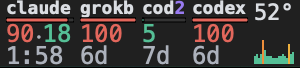
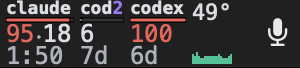
Blocks: usage below 50% in plain text color, not green
Only amber/orange/red carry a signal; safe numbers and the bar use the
label/temperature text color (theme-aware). Green stays in menu items.

Claude-Session: https://claude.ai/code/session_015nQPSd2BiFRJHyBXQFwzgC

diff --git a/README.md b/README.md
@@ -8,7 +8,7 @@ Your AI subscription limits in the macOS menu bar. One strip, one block per acco
 
 Each block: **% used** (5-hour · weekly, or just weekly) and **time until reset**
 (`h:mm`, or `Nd` when it's more than a day away).
-Green → yellow → orange → red as you burn through the limit.
+Plain until 50 %, then yellow → orange → red as you burn through the limit.
 
 Works with:
 
